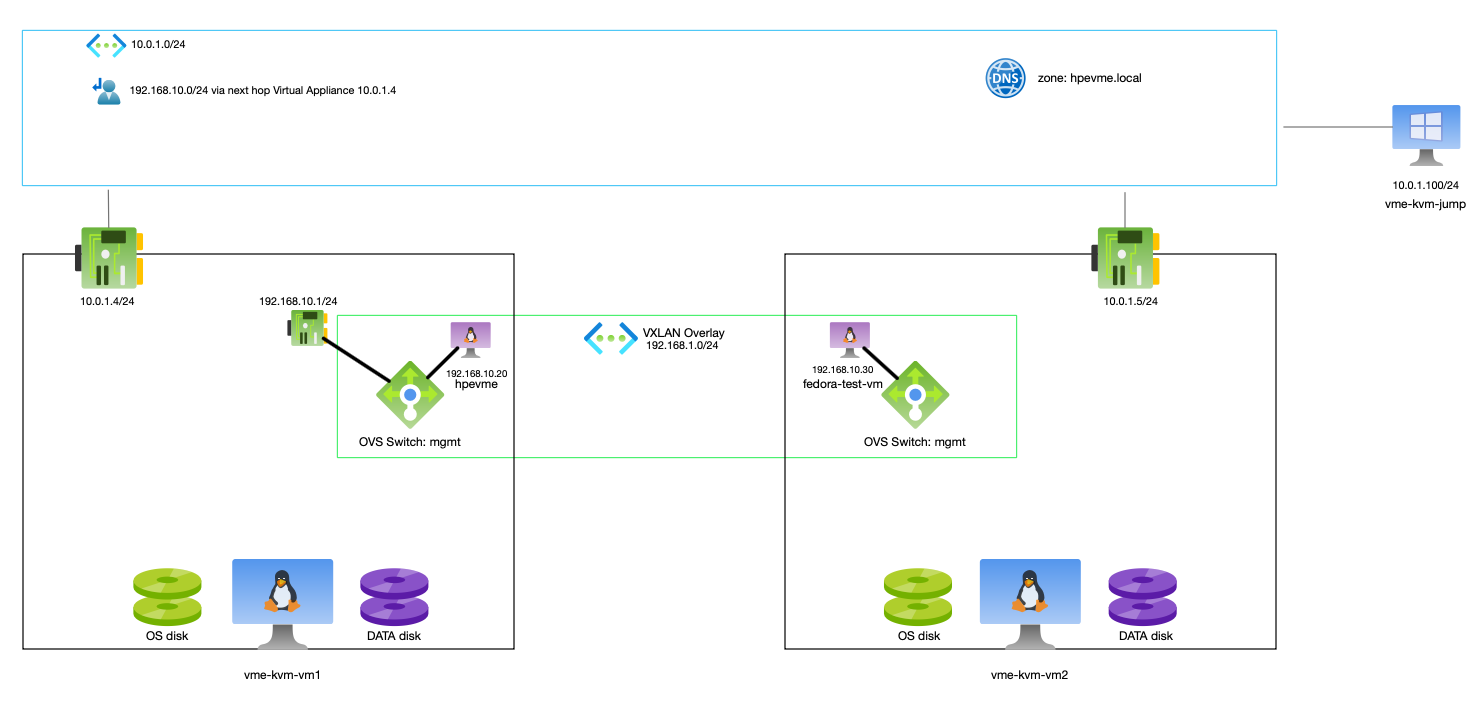
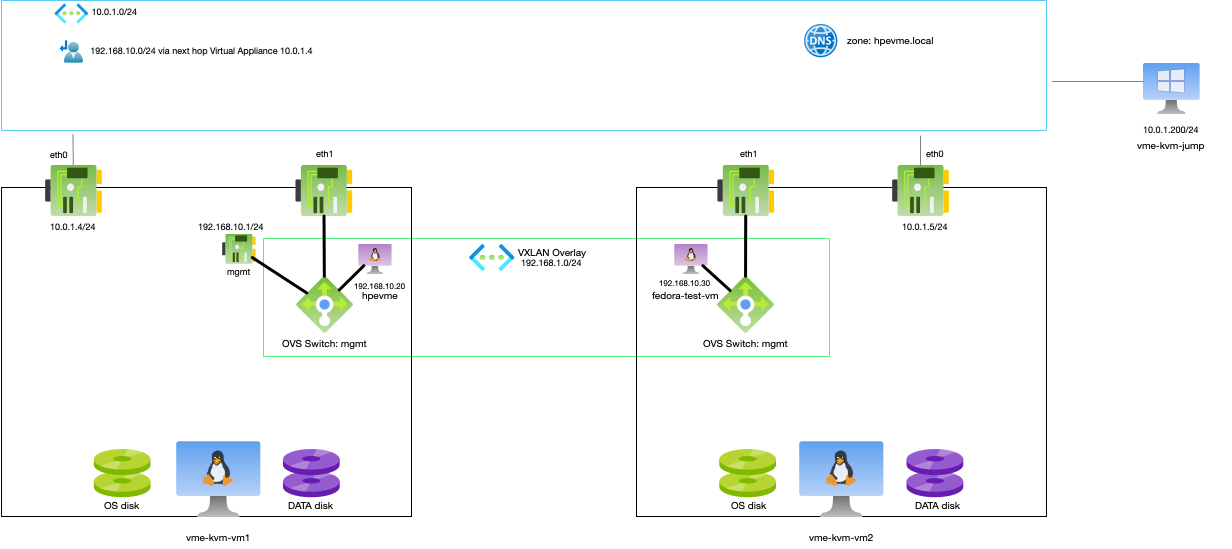
bug fixes to enable the hpe-vm installed to create the Morpheus Management VM and updates to documentation

diff --git a/GETTING-STARTED.md b/GETTING-STARTED.md
@@ -119,7 +119,25 @@ curl -s https://api.ipify.org
    ansible-playbook playbook-install-putty.yml
    ```
 
-## Step 4: Verify the Deployment
+## Step 4: Install the HPE Essentials Manager
+
+1. **Run hpe-vm** on the first host to deploy the HPE Essentials Manager:
+   - SSH into the first host and run the following command:
+   ```
+   sudo hpe-vm
+   ```
+    > NOTE: The  `/tmp/hpe-vm-essentials-8.0.10-1.qcow2.gz` file must be present on the first host (the `playbook-install-kvm.yml` playbook would have placed this file in /tmp)
+
+   - Check the diagram for the IP address to use for the Essentials Manager and use the Azure default DNS (`168.63.129.16`). Instead of the IP address, you may also use the following FQDN:
+     `hpevme.hpevme.local`
+
+2. **Run the switch-network-mode.sh script** to switch to overlay mode:
+   - Run the following command on the first host to switch to full VXLAN Overlay mode:
+     ```
+     switch-network-mode.sh full
+     ```
+
+## Step 5: Verify the Deployment
 
 1.  **Verify the overlay network**:
     ```bash
